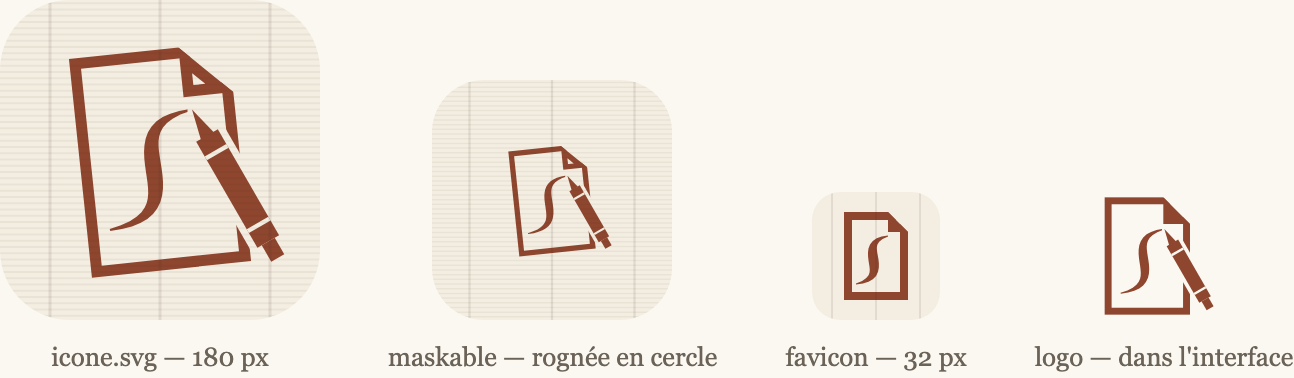
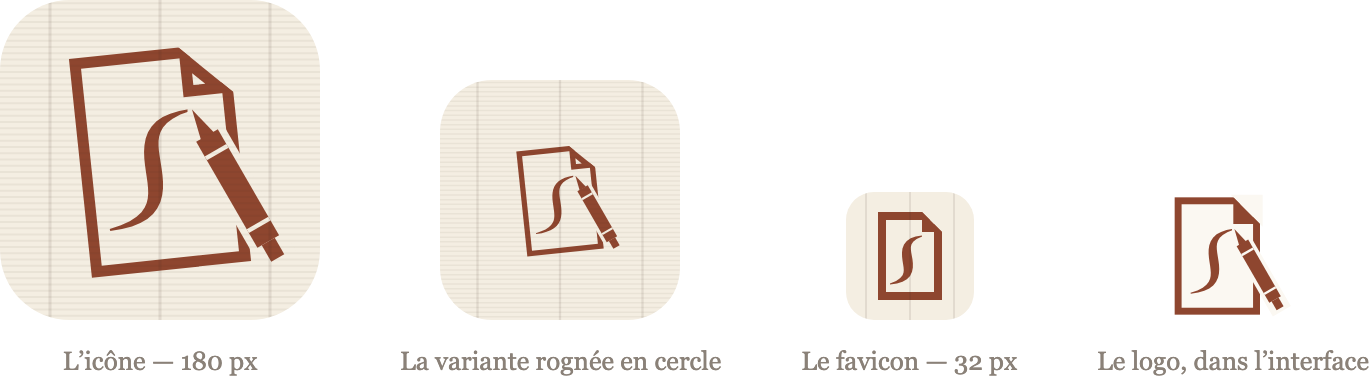
Présente l'icône sur la page publique, et corrige le thème sombre
La page « À propos » gagne une section « Une icône, quatre fichiers » : le
motif et sa raison d'être, la planche des quatre déclinaisons, le contraste
mesuré, et l'anecdote du rasteriseur qui produisait des PNG de la bonne taille
et faux. La planche est régénérée par « make apercus », pour la page publique
comme pour la documentation.

Deux défauts corrigés au passage, découverts en vérifiant la planche dans les
deux thèmes :

- Filament pose la classe « dark » sur <html>, pas sur <body>. La règle
  « .fi-body:not(.dark) » était donc toujours vraie, et peignait le crème du
  thème clair jusque dans le thème sombre.
- Le logo n'a pas de tuile : ce qui est « du papier » y reprend la couleur de
  la surface, et faisait une vignette blanche sur la barre sombre. Une
  variante est maintenant dérivée du fichier source à la génération, et le
  gabarit bascule de l'une à l'autre.

Un test joué en colorScheme « dark » verrouille les deux. Il interroge la
règle CSS plutôt que la visibilité : sur un téléphone, la barre latérale est
repliée et le logo s'y trouve caché pour une raison étrangère au thème.

diff --git a/tests/e2e/08-confort.spec.js b/tests/e2e/08-confort.spec.js
@@ -111,3 +111,45 @@ test.describe('Confort de lecture et de manipulation', () => {
         }
     });
 });
+
+test.describe('Thème sombre', () => {
+    test.use({ colorScheme: 'dark' });
+
+    test('le fond et le logo suivent réellement le thème', async ({ page }) => {
+        await page.goto('/dessins');
+
+        // Filament pose la classe sur <html>, et non sur <body> : une règle
+        // écrite « .fi-body:not(.dark) » était toujours vraie, et peignait le
+        // crème du thème clair jusque dans le thème sombre.
+        await expect(page.locator('html')).toHaveClass(/\bdark\b/);
+
+        const fond = await page.evaluate(() =>
+            getComputedStyle(document.body).backgroundColor);
+
+        expect(fond, 'le crème du thème clair ne doit pas réapparaître')
+            .not.toBe('rgb(251, 248, 242)');
+
+        // Le logo n'a pas de tuile : son papier doit prendre la couleur de la
+        // surface, faute de quoi il fait une vignette blanche sur la barre.
+        //
+        // On interroge la règle CSS et non la visibilité : sur un téléphone,
+        // la barre latérale est repliée et le logo s'y trouve caché pour une
+        // raison qui n'a rien à voir avec le thème.
+        const logos = await page.evaluate(() => {
+            const style = (selecteur) => {
+                const element = document.querySelector(selecteur);
+
+                return element ? getComputedStyle(element).display : null;
+            };
+
+            return {
+                clair: style('img[src$="/logo.svg"]'),
+                sombre: style('img[src*="logo-sombre.svg"]'),
+            };
+        });
+
+        expect(logos.clair, 'le logo clair doit être masqué').toBe('none');
+        expect(logos.sombre, 'le logo sombre doit être affiché').not.toBe('none');
+        expect(logos.sombre).not.toBeNull();
+    });
+});

diff --git a/resources/css/filament/admin/theme.css b/resources/css/filament/admin/theme.css
@@ -31,8 +31,11 @@ html {
     font-size: 17px;
 }
 
-/* Fond papier en thème clair, sans toucher au thème sombre. */
-.fi-body:not(.dark) {
+/* Fond papier en thème clair, sans toucher au thème sombre.
+   La classe « dark » est posée sur <html>, pas sur <body> : écrit
+   « .fi-body:not(.dark) », le sélecteur était toujours vrai et peignait le
+   crème jusque dans le thème sombre. */
+html:not(.dark) .fi-body {
     background-color: var(--color-papier);
 }
 

diff --git a/resources/views/a-propos.blade.php b/resources/views/a-propos.blade.php
@@ -24,7 +24,7 @@
         'MariaDB 11.4' => 'Base de données',
         'Imagick' => 'Traitement des images, HEIC des iPhone compris',
         'PWA' => 'Installable sur Mac et sur iPhone',
-        'Playwright' => '94 tests automatisés, dont 62 dans un vrai navigateur',
+        'Playwright' => '96 tests automatisés, dont 64 dans un vrai navigateur',
         'Docker' => 'Environnement de développement identique à la production',
     ];
 @endphp
@@ -172,6 +172,48 @@
                     Ces valeurs ne sont pas des intentions : un test automatisé
                     échoue si le contraste passe sous le seuil, un autre si un
                     bouton devient trop petit pour le doigt.
+                </p>
+            </article>
+
+            <article>
+                <h2 class="text-2xl font-semibold">Une icône, quatre fichiers</h2>
+
+                <p class="mt-4 text-lg leading-relaxed">
+                    Une icône n'est pas une image qu'on décline. Ce qui tient à
+                    512 pixels ne tient pas à 32 : le favicon abandonne la
+                    trame du papier et appuie ce qu'il en reste. Et le logo
+                    posé à côté du mot n'a pas de tuile — lui laisser le fond
+                    de l'icône ferait une vignette dans la barre. D'où quatre
+                    dessins plutôt qu'un.
+                </p>
+
+                <figure class="mt-8">
+                    <img
+                        src="/apercus/icones.png"
+                        alt="L'icône de Filigrane dans ses quatre déclinaisons : l'icône complète, la variante rognée en cercle, le favicon et le logo."
+                        loading="lazy"
+                        class="w-full"
+                    >
+                </figure>
+
+                <p class="mt-8 text-lg leading-relaxed">
+                    Le motif : une feuille, son coin replié, un crayon posé en
+                    diagonale, et le filigrane qui transparaît dans le papier.
+                    La trame passe <em>par-dessus</em> le dessin — c'est ce
+                    détail qui en fait un filigrane, pris dans l'épaisseur de
+                    la feuille, plutôt qu'un dessin posé à sa surface.
+                    Contraste du motif sur son fond : <strong>5,93 : 1</strong>.
+                </p>
+
+                <p class="mt-4 text-lg leading-relaxed">
+                    La fabrication des PNG, elle, a réservé une surprise. Le
+                    rasteriseur employé au départ compose mal les
+                    transformations imbriquées : il plaçait le crayon
+                    entièrement hors du cadre. Sans message, sans code
+                    d'erreur — des fichiers de la bonne taille, et faux. Le
+                    rendu passe désormais par un navigateur sans tête, celui-là
+                    même qui joue les tests. L'image produite est alors
+                    exactement celle que verront les visiteurs.
                 </p>
             </article>
 

diff --git a/resources/views/components/filigrane-logo.blade.php b/resources/views/components/filigrane-logo.blade.php
@@ -1,10 +1,25 @@
 @props(['class' => 'h-9'])
 
 <span {{ $attributes->class(['flex items-center gap-2.5']) }}>
-    {{-- logo.svg, et non icone.svg : le motif seul, sans tuile ni fond, et
-         repris dans le crème de l'interface. Pas d'arrondi, donc : il n'y a
-         pas de carré à arrondir. --}}
-    <img src="{{ asset('icones/logo.svg') }}" alt="" class="{{ $class }} w-auto" />
+    {{-- logo.svg, et non icone.svg : le motif seul, sans tuile ni fond. Pas
+         d'arrondi, donc : il n'y a pas de carré à arrondir.
+
+         Deux fichiers, et non un seul avec du CSS : le dessin est servi par
+         une balise <img>, qui n'hérite de rien de la page. Ce qui est « du
+         papier » dans le logo doit reprendre la couleur de la surface, et
+         cette couleur change avec le thème. La variante sombre est dérivée de
+         la claire par scripts/generer-icones.mjs. --}}
+    <img
+        src="{{ asset('icones/logo.svg') }}"
+        alt=""
+        class="{{ $class }} w-auto dark:hidden"
+    />
+    <img
+        src="{{ asset('icones/logo-sombre.svg') }}"
+        alt=""
+        class="{{ $class }} hidden w-auto dark:block"
+    />
+
     <span class="fi-filigrane-wordmark text-xl font-semibold tracking-wide text-gray-950 dark:text-white">
         Filigrane
     </span>

diff --git a/DOCS/02-architecture-technique.md b/DOCS/02-architecture-technique.md
@@ -377,15 +377,15 @@ ligne de commande, import en masse ou test.
 | Suite | Quantité | Ce qu'elle couvre |
 |---|---|---|
 | PHPUnit (`tests/Feature`) | 32 tests | Numérotation, chaîne de traitement des images, échelles, corbeille, exports. |
-| Playwright `mac` | 48 tests | Connexion, droits, catalogage, import, studio, mesure, PWA, confort, diaporama, exports. |
-| Playwright `mobile` | 14 tests | Mise en page et atteignabilité à 390 px. |
+| Playwright `mac` | 49 tests | Connexion, droits, catalogage, import, studio, mesure, PWA, confort, diaporama, exports. |
+| Playwright `mobile` | 15 tests | Mise en page et atteignabilité à 390 px. |
 | Playwright `en-ligne` | 1 test | Recette du serveur réel après déploiement. |
 
 Les tests tournent contre **MariaDB**, pas SQLite : le schéma interroge des
 colonnes JSON par chemin (`exif->camera`), et la traduction SQL diffère d'un
 moteur à l'autre. Un test vert sur SQLite ne prouverait rien.
 
-Sept défauts réels ont été trouvés par ces tests plutôt que par l'usage :
+Huit défauts réels ont été trouvés par ces tests plutôt que par l'usage :
 
 1. `SheetDetector` lisait la taille du canevas au lieu de celle de la zone
    détourée — toute détection échouait.
@@ -413,6 +413,13 @@ Sept défauts réels ont été trouvés par ces tests plutôt que par l'usage :
    développement, où elles sont bien là. Le motif est maintenant `/vendor`, et
    deux contrôles veillent : `verifier-production.sh` et la recette en ligne
    échouent si une clé brute réapparaît.
+8. Filament pose la classe `dark` sur `<html>`, et non sur `<body>`. Une règle
+   écrite `.fi-body:not(.dark)` était donc **toujours vraie** : le crème du
+   thème clair se peignait jusque dans le thème sombre, et le logo — qui n'a
+   pas de tuile — y faisait une vignette blanche sur la barre. Les deux sont
+   corrigés, et un test joué en `colorScheme: 'dark'` interroge désormais la
+   règle CSS elle-même plutôt que la visibilité, la barre latérale étant
+   repliée sur un téléphone.
 
 **Ce que les tests ne couvrent pas, et qu'il faut vérifier à la main :**
 

diff --git a/DOCS/04-decisions-et-alternatives.md b/DOCS/04-decisions-et-alternatives.md
@@ -758,7 +758,11 @@ motif sur fond : **5,93 : 1**.
 
 Quatre fichiers plutôt qu'un : `icone.svg`, `icone-maskable.svg`,
 `favicon.svg` simplifié pour 32 pixels, et `logo.svg` — le motif seul, sans
-fond, repris dans le crème de l'interface.
+fond, repris dans le crème de l'interface. Un cinquième, `logo-sombre.svg`,
+est **dérivé** du précédent à la génération : le logo n'ayant pas de tuile,
+son papier doit prendre la couleur de la surface, et celle-ci change avec le
+thème. Une seule couleur diffère, il n'y a donc pas deux dessins à tenir à
+jour.
 
 **Pourquoi quatre.** Ce qui tient à 512 pixels ne tient pas à 32 : le favicon
 perd ses vergeures et appuie ses pontuseaux. Et le logo posé à côté du

diff --git a/DOCS/07-prompt-icone.md b/DOCS/07-prompt-icone.md
@@ -33,6 +33,11 @@ Quatre fichiers dans `resources/icones/`, qui ne servent pas la même chose :
 | `favicon.svg` | Une version simplifiée — vergeures retirées, pontuseaux appuyés — qui tient dans 32 pixels. |
 | `logo.svg` | Le motif seul, sans fond, cadré serré, repris dans le crème de l'interface. Posé à gauche du mot « Filigrane ». |
 
+`make icones` en dérive un cinquième, `logo-sombre.svg` : le logo n'ayant pas
+de tuile, ce qui est « du papier » doit prendre la couleur de la surface, et
+celle-ci change avec le thème. Une seule couleur est substituée — il n'y a
+pas deux dessins à tenir à jour.
+
 ---
 
 ## Comment refaire ce travail

diff --git a/DOCS/00-sommaire.md b/DOCS/00-sommaire.md
@@ -64,7 +64,7 @@ qu'il faut exiger en retour, et la marche à suivre pour l'intégrer — métado
 ```bash
 make install    # première installation complète
 make up         # démarre l'environnement local → http://localhost:8080
-make test       # 32 tests PHP + 62 tests de bout en bout
+make test       # 32 tests PHP + 64 tests de bout en bout
 make deploy     # met en ligne
 make sauvegarde # rapatrie base et photographies sur ce Mac
 make apercus    # régénère les captures de la page publique « À propos »

diff --git a/README.md b/README.md
@@ -23,7 +23,7 @@ mot de passe `filigrane`.
 
 ```bash
 make             # liste tout
-make test        # 32 tests PHP + 62 tests de bout en bout
+make test        # 32 tests PHP + 64 tests de bout en bout
 make deploy      # met en ligne
 make sauvegarde  # rapatrie base et photographies
 make apercus     # régénère les captures de la page « À propos »
